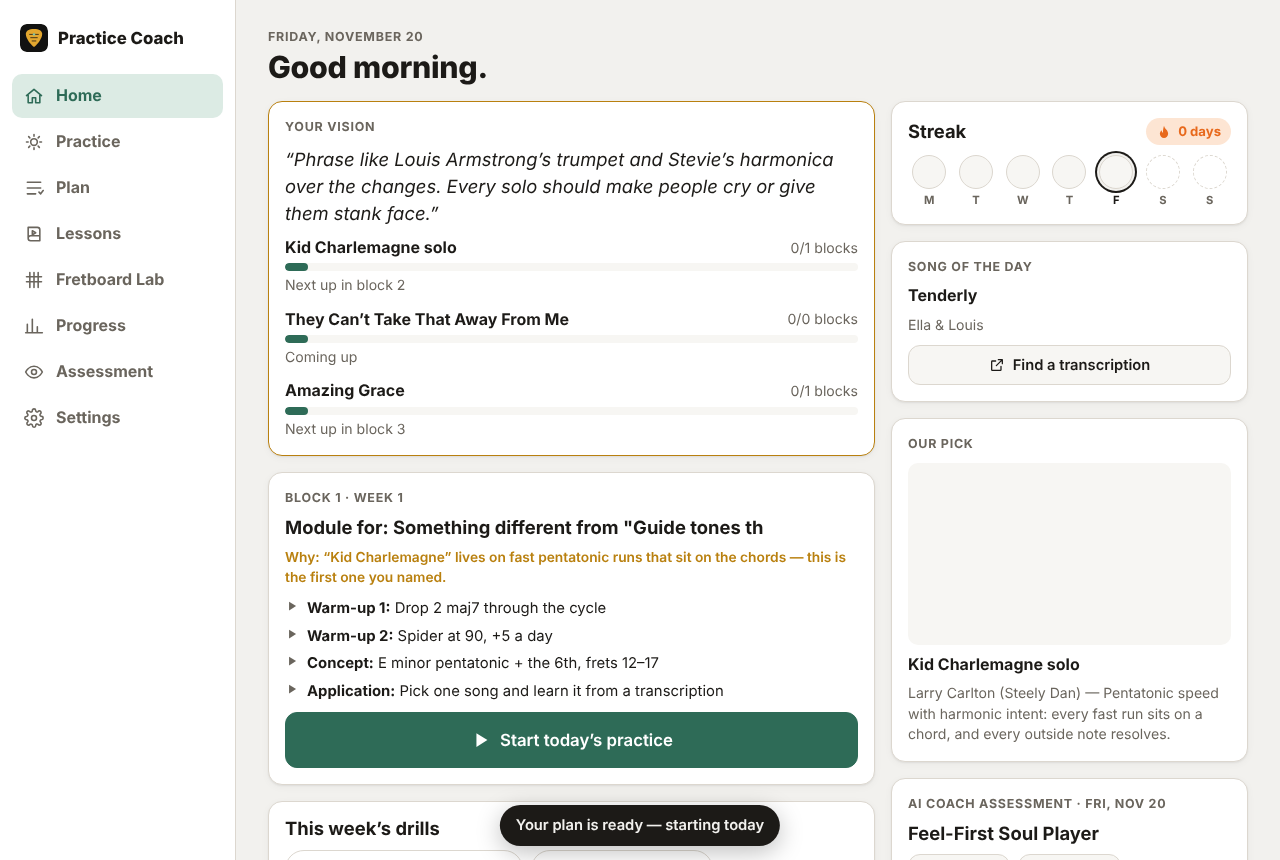
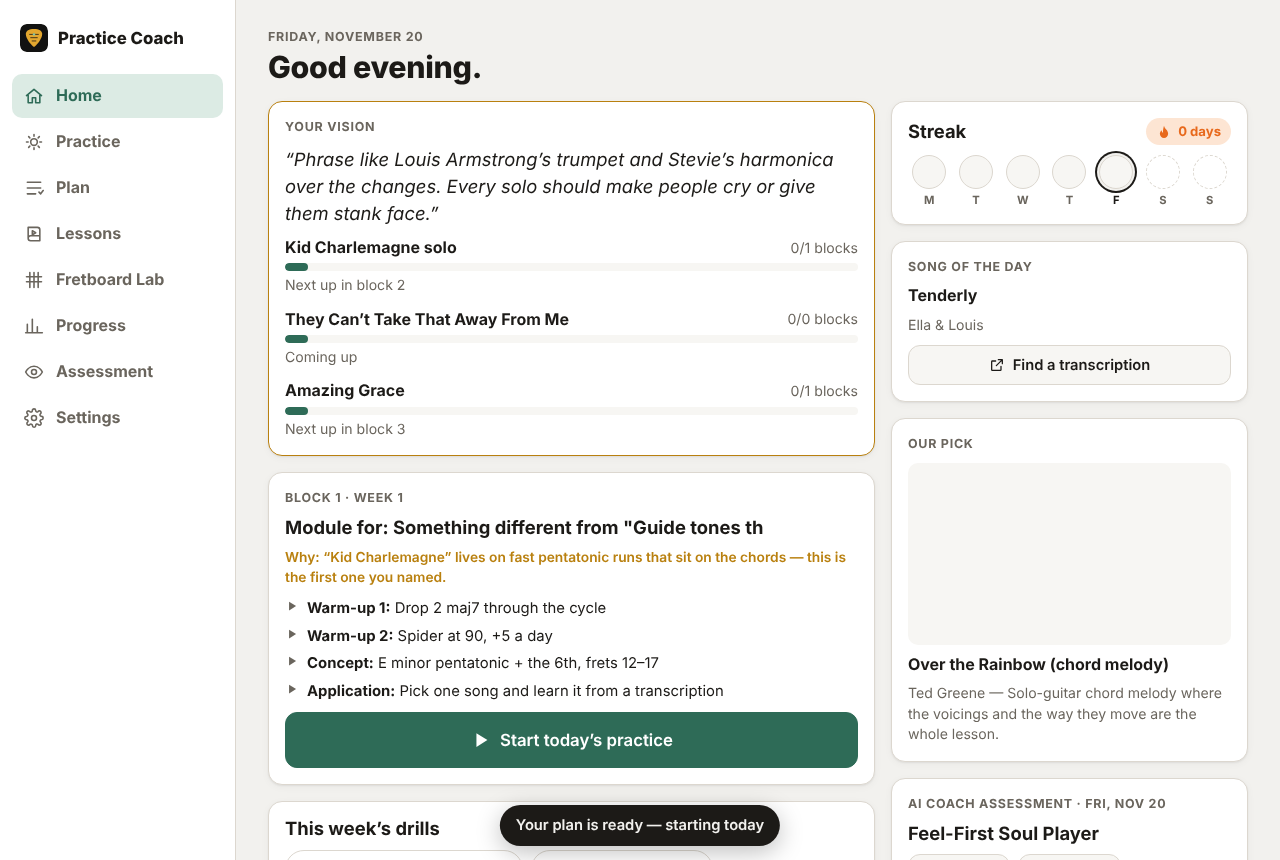
Transcription standard: Clay's three baseline videos, library, by-ear fallback
Adds api/_lib/transcriptions.ts (shared by server prompts and client) with
the three baselines; Joe Pass Satin Doll and Ted Greene Over the Rainbow
join Kid Charlemagne as approved lessons. Module songs link straight to
the lesson when the library has them. The coach marks each song as
learned from a transcription or by ear, and offers an alternative with
a transcription when a named piece has none. Build page shows the marker.

Claude-Session: https://claude.ai/code/session_01Ck9jDmZdcsHtunHSpi2Wgy

Changed region(s): [[0.7188, 0.7558, 0.9688, 0.8767], [0.2812, 0.0605, 0.375, 0.0907]]

diff --git a/practice-coach/api/_lib/transcriptions.ts b/practice-coach/api/_lib/transcriptions.ts
@@ -1,0 +1,114 @@
+/**
+ * The transcription library: videos that meet Clay's standard for learning a
+ * piece note for note — the full recording (or the solo) with tabs and/or
+ * notation ON SCREEN, synced to the audio, free to watch. Clay supplied the
+ * three baselines. Plain data, no imports, so both the server (prompts) and
+ * the client (lessons, links) can use it.
+ */
+export type Transcription = {
+  id: string
+  youtubeId: string
+  song: string
+  /** The player whose performance is transcribed. */
+  artist: string
+  /** Original act, when different from the performer (e.g. Steely Dan for a Carlton solo). */
+  originalArtist?: string
+  channel: string
+  videoTitle: string
+  /** What is on screen. */
+  format: 'tabs + notation' | 'notation' | 'tabs'
+  /** How much of the recording is covered. */
+  scope: 'full piece' | 'solo'
+  genre: string
+  /** Why it is the standard. */
+  note: string
+  /** Clay's three baselines are `baseline`; later additions are `library`. */
+  tier: 'baseline' | 'library'
+  /** Other titles the same piece goes by, for matching. */
+  aka?: string[]
+}
+
+export const TRANSCRIPTIONS: Transcription[] = [
+  {
+    id: 'kid-charlemagne',
+    youtubeId: 'FnFeReSz2j4',
+    song: 'Kid Charlemagne',
+    artist: 'Larry Carlton',
+    originalArtist: 'Steely Dan',
+    channel: 'Rens Warnar Music',
+    videoTitle: 'Steely Dan - Kid Charlemagne Solo with TAB',
+    format: 'tabs + notation',
+    scope: 'solo',
+    genre: 'jazz-rock',
+    note: 'Tabs, notation and chord names on screen with the record; the solo can be learned note for note.',
+    tier: 'baseline',
+    aka: ['Kid Charlemagne solo'],
+  },
+  {
+    id: 'joe-pass-satin-doll',
+    youtubeId: 'hMvMuSpsNmE',
+    song: 'Satin Doll',
+    artist: 'Joe Pass',
+    originalArtist: 'Duke Ellington',
+    channel: 'DW Scores',
+    videoTitle: 'Satin Doll by JOE PASS - Transcription (w/Tabs)',
+    format: 'tabs + notation',
+    scope: 'full piece',
+    genre: 'jazz',
+    note: 'A full solo-guitar performance transcribed with tabs; chord melody, walking bass and single lines in one piece.',
+    tier: 'baseline',
+  },
+  {
+    id: 'ted-greene-over-the-rainbow',
+    youtubeId: 'oB2YMXSvAz4',
+    song: 'Over the Rainbow',
+    artist: 'Ted Greene',
+    originalArtist: 'Harold Arlen',
+    channel: 'François Leduc',
+    videoTitle: 'Over the Rainbow - Ted Greene (Transcription)',
+    format: 'notation',
+    scope: 'full piece',
+    genre: 'jazz',
+    note: 'Solo-guitar chord melody transcribed in full; the voicings and voice leading are the lesson.',
+    tier: 'baseline',
+    aka: ['Somewhere Over the Rainbow'],
+  },
+]
+
+const norm = (s: string) =>
+  s
+    .toLowerCase()
+    .replace(/[’'`"().,!?]/g, '')
+    .replace(/\s+/g, ' ')
+    .trim()
+
+/**
+ * The library entry for a song, if any. Matches on the song title (or a known
+ * alias) appearing in `title`, and, when an artist is given, on the performer
+ * or the original act appearing in the artist text (so "Kid Charlemagne —
+ * Steely Dan" and "Kid Charlemagne solo — Larry Carlton" both match).
+ */
+export function findTranscription(title: string, artist?: string | null): Transcription | undefined {
+  const t = norm(title)
+  if (!t) return undefined
+  const a = norm(artist ?? '')
+  return TRANSCRIPTIONS.find((x) => {
+    const names = [x.song, ...(x.aka ?? [])].map(norm)
+    const titleHit = names.some((n) => t.includes(n) || n.includes(t))
+    if (!titleHit) return false
+    if (!a) return true
+    const people = [x.artist, x.originalArtist ?? ''].map(norm).filter(Boolean)
+    const lastNames = people.map((p) => p.split(' ').pop()!)
+    return people.some((p) => a.includes(p)) || lastNames.some((l) => a.includes(l)) || t.includes(norm(x.artist))
+  })
+}
+
+export const TRANSCRIPTIONS_TEXT = `TRANSCRIPTION STANDARD. A song in an application is only useful if the player can learn it note for note. The standard is a free YouTube video that shows the full recording (or the solo) with tabs and/or notation ON SCREEN, synced to the audio. The baseline examples:
+${TRANSCRIPTIONS.filter((x) => x.tier === 'baseline')
+  .map((x) => `- ${x.videoTitle} (${x.channel}) — ${x.scope}, ${x.format}`)
+  .join('\n')}
+Rules for application songs:
+1. Prefer songs and solos that almost certainly have a video like that (widely transcribed records, classic solos, standards played by famous guitarists). Set how = "transcription".
+2. The player's own named pieces always stay in, even without one. For a piece that is unlikely to have a transcription video (a one-off live or interview performance, an obscure track, a very recent release), set how = "ear" and make the instruction a learn-by-ear plan: the underlying song's form and changes, which section to loop first, what to listen for.
+3. When a piece is how = "ear" and the module needs more material, add one alternative with the same lesson value that does have a transcription video (same style, same technique) and say in the note why it is there.
+4. Never invent a video title or channel. You only decide how the song is best learned; the app finds the video.`

diff --git a/practice-coach/src/ai/fixture.ts b/practice-coach/src/ai/fixture.ts
@@ -20,10 +20,10 @@ export const FIXTURE_MODULES: AiModule[] = [
     application: {
       instruction: 'Pick one and learn it from a video with the tabs on screen; then solo over it using only this week’s idea.',
       songs: [
-        { title: 'Kid Charlemagne solo', artist: 'Larry Carlton', note: 'your goal — lesson with bar map' },
-        { title: 'The Thrill Is Gone', artist: 'B.B. King', note: null },
-        { title: 'Isn’t She Lovely', artist: 'Stevie Wonder', note: null },
-        { title: 'Cissy Strut', artist: 'The Meters', note: 'discovery pick' },
+        { title: 'Kid Charlemagne solo', artist: 'Larry Carlton', note: 'your goal — lesson with bar map', how: null },
+        { title: 'The Thrill Is Gone', artist: 'B.B. King', note: null, how: null },
+        { title: 'Isn’t She Lovely', artist: 'Stevie Wonder', note: null, how: null },
+        { title: 'Cissy Strut', artist: 'The Meters', note: 'discovery pick', how: null },
       ],
     },
     doneWhen: ['Bars 7–9 clean at ♩=98', 'G major pentatonic over Cmaj7 without thinking', 'Spider at 100 bpm clean'],
@@ -43,9 +43,9 @@ export const FIXTURE_MODULES: AiModule[] = [
     application: {
       instruction: 'Melody first, then a chorus using only guide tones and chord tones.',
       songs: [
-        { title: 'They Can’t Take That Away From Me', artist: 'Ella Fitzgerald & Louis Armstrong', note: 'your goal' },
-        { title: 'Autumn Leaves', artist: 'standard', note: null },
-        { title: 'Fly Me to the Moon', artist: 'standard', note: null },
+        { title: 'They Can’t Take That Away From Me', artist: 'Ella Fitzgerald & Louis Armstrong', note: 'your goal', how: null },
+        { title: 'Autumn Leaves', artist: 'standard', note: null, how: null },
+        { title: 'Fly Me to the Moon', artist: 'standard', note: null, how: null },
       ],
     },
     doneWhen: ['Guide tones through a ii–V–I in any key at 80 bpm', 'A full chorus of the tune without a pentatonic box'],
@@ -65,9 +65,9 @@ export const FIXTURE_MODULES: AiModule[] = [
     application: {
       instruction: 'Arrange the first verse.',
       songs: [
-        { title: 'Amazing Grace', artist: 'Isaiah Sharkey', note: 'your goal' },
-        { title: 'Tenderly', artist: 'Ella & Louis', note: null },
-        { title: 'Misty', artist: 'Wes Montgomery', note: 'discovery pick' },
+        { title: 'Amazing Grace', artist: 'Isaiah Sharkey', note: 'your goal', how: null },
+        { title: 'Tenderly', artist: 'Ella & Louis', note: null, how: null },
+        { title: 'Misty', artist: 'Wes Montgomery', note: 'discovery pick', how: null },
       ],
     },
     doneWhen: ['One verse of Amazing Grace as chord-melody', 'Harmonize any melody note with a drop 2 voicing on demand'],
@@ -87,9 +87,9 @@ export const FIXTURE_MODULES: AiModule[] = [
     application: {
       instruction: 'Play the melody you learned along with the record.',
       songs: [
-        { title: 'So What', artist: 'Miles Davis', note: null },
-        { title: 'Four on Six', artist: 'Wes Montgomery', note: null },
-        { title: 'Blue Bossa', artist: 'Kenny Dorham', note: null },
+        { title: 'So What', artist: 'Miles Davis', note: null, how: null },
+        { title: 'Four on Six', artist: 'Wes Montgomery', note: null, how: null },
+        { title: 'Blue Bossa', artist: 'Kenny Dorham', note: null, how: null },
       ],
     },
     doneWhen: ['Three melodies learned by ear', 'Name the players on each record'],

diff --git a/practice-coach/src/plan/fromModules.ts b/practice-coach/src/plan/fromModules.ts
@@ -3,6 +3,8 @@
  * so Practice, Plan and Home need no AI-specific code.
  */
 import type { AiModule, AiResult } from '../../api/_lib/schemas'
+import { findTranscription } from '../../api/_lib/transcriptions'
+import { LESSONS } from '../content/lessons'
 import type { Vision } from '../assessment/scoring'
 import type { BlockWeek, PartOption, SessionPart } from '../content/types'
 import type { GeneratedPlan, Milestone, PlanBlock } from './model'
@@ -17,6 +19,16 @@ function minsFor(part: keyof typeof RATIO, sessionMinutes: number): Mins {
 
 const search = (title: string, artist: string) =>
   `https://www.youtube.com/results?search_query=${encodeURIComponent(`${title} ${artist} guitar transcription tab`.trim())}`
+const recording = (title: string, artist: string) => `https://www.youtube.com/results?search_query=${encodeURIComponent(`${title} ${artist}`.trim())}`
+
+/** Where a module song sends the player: the lesson (tabs on screen, looper) when the library has it; the record for by-ear pieces; else a transcription search. */
+export function songLink(s: { title: string; artist: string; how?: 'transcription' | 'ear' | null }): { url: string; via: 'lesson' | 'ear' | 'search' } {
+  const t = findTranscription(s.title, s.artist)
+  const lesson = t && LESSONS.find((l) => l.id === t.id || l.youtubeId === t.youtubeId)
+  if (lesson) return { url: `#/lessons/${lesson.id}`, via: 'lesson' }
+  if (s.how === 'ear') return { url: recording(s.title, s.artist), via: 'ear' }
+  return { url: search(s.title, s.artist), via: 'search' }
+}
 
 const labUrl = (q: string | null) => (q ? '/lab?' + q : null)
 
@@ -78,12 +90,16 @@ export function planFromModules(result: AiResult, modules: AiModule[], now = new
       const songs = m.application.songs
       const rot = (w - 1) % Math.max(1, songs.length)
       const ordered = [...songs.slice(rot), ...songs.slice(0, rot)]
-      const options: PartOption[] = ordered.map((s) => ({
-        label: s.title,
-        sub: [s.artist, s.note].filter(Boolean).join(' · ') || undefined,
-        url: search(s.title, s.artist),
-        kind: pieceTitles.includes(s.title.toLowerCase()) ? 'goal' : s.note?.toLowerCase().includes('discover') ? 'discover' : 'song',
-      }))
+      const options: PartOption[] = ordered.map((s) => {
+        const link = songLink(s)
+        const via = link.via === 'lesson' ? 'tabs on screen · looper' : link.via === 'ear' ? 'by ear from the record · loop it slow' : null
+        return {
+          label: s.title,
+          sub: [s.artist, via, s.note].filter(Boolean).join(' · ') || undefined,
+          url: link.url,
+          kind: pieceTitles.includes(s.title.toLowerCase()) ? 'goal' : s.note?.toLowerCase().includes('discover') ? 'discover' : 'song',
+        }
+      })
       const app: SessionPart = {
         id: 'application',
         title: 'Application',

diff --git a/practice-coach/src/content/lessons.ts b/practice-coach/src/content/lessons.ts
@@ -61,6 +61,43 @@ export const LESSONS: Lesson[] = [
     ],
   },
   {
+    id: 'joe-pass-satin-doll',
+    kind: 'song',
+    title: 'Satin Doll (solo guitar)',
+    artist: 'Joe Pass',
+    song: 'Satin Doll',
+    year: 1973,
+    youtubeId: 'hMvMuSpsNmE',
+    channel: 'DW Scores',
+    videoTitle: 'Satin Doll by JOE PASS - Transcription (w/Tabs)',
+    status: 'approved',
+    verification: "One of Clay's three baseline transcriptions: full performance, tabs and notation on screen with the recording.",
+    concepts: ['chord melody', 'walking bass', 'ii–V–I lines', 'drop 2 voicings'],
+    summary: 'A whole solo-guitar performance of a standard: melody, chords, bass and single lines from one player.',
+    drills: [
+      { label: 'Cmaj7 drop 2 · top four strings', labUrl: labPath({ mode: 'chords', root: 'C', type: 'maj7', voicing: 'drop2', set: 'DGBE', move: 'static' }) },
+      { label: 'G7 arpeggio · position 3', labUrl: labPath({ mode: 'arpeggios', root: 'G', type: '7', pos: 3, move: 'static' }) },
+    ],
+  },
+  {
+    id: 'ted-greene-over-the-rainbow',
+    kind: 'song',
+    title: 'Over the Rainbow (chord melody)',
+    artist: 'Ted Greene',
+    song: 'Over the Rainbow',
+    youtubeId: 'oB2YMXSvAz4',
+    channel: 'François Leduc',
+    videoTitle: 'Over the Rainbow - Ted Greene (Transcription)',
+    status: 'approved',
+    verification: "One of Clay's three baseline transcriptions: full performance in notation on screen with the recording.",
+    concepts: ['chord melody', 'voice leading', 'reharmonization'],
+    summary: 'Solo-guitar chord melody where the voicings and the way they move are the whole lesson.',
+    drills: [
+      { label: 'Major triads · close voicings · top three strings', labUrl: labPath({ mode: 'chords', root: 'C', type: 'maj', voicing: 'close3', set: 'GBE', move: 'c4' }) },
+      { label: 'Fmaj7 drop 2 · top four strings', labUrl: labPath({ mode: 'chords', root: 'F', type: 'maj7', voicing: 'drop2', set: 'DGBE', move: 'static' }) },
+    ],
+  },
+  {
     id: 'benson-affirmation',
     kind: 'song',
     title: 'Affirmation (live solo)',

diff --git a/practice-coach/src/screens/BuildPlan.tsx b/practice-coach/src/screens/BuildPlan.tsx
@@ -2,6 +2,7 @@ import { useEffect, useRef, useState } from 'react'
 import type { AiModule } from '../../api/_lib/schemas'
 import { applyBuild, setBuildModules, setBuildTime, setModules } from '../ai/actions'
 import { getModules, writeModule } from '../ai/client'
+import { songLink } from '../plan/fromModules'
 import { Icon } from '../components/Icon'
 import { toast } from '../components/Toast'
 import { href, navigate } from '../lib/router'
@@ -219,7 +220,24 @@ export function BuildPlan() {
                 </div>
                 <div>
                   <span className="label">Apply it to</span>
-                  <div>{m.application.songs.map((s) => `${s.title} (${s.artist})`).join(' · ')}</div>
+                  <ul style={{ margin: 0, paddingLeft: 18 }}>
+                    {m.application.songs.map((s) => {
+                      const link = songLink(s)
+                      return (
+                        <li key={`${s.title}|${s.artist}`}>
+                          {link.via === 'lesson' ? (
+                            <a href={link.url}>{s.title}</a>
+                          ) : (
+                            s.title
+                          )}{' '}
+                          <span className="muted">({s.artist})</span>
+                          {link.via === 'lesson' && <span className="pill"> tabs on screen</span>}
+                          {link.via === 'ear' && <span className="pill amber"> by ear</span>}
+                          {s.note && <span className="muted"> — {s.note}</span>}
+                        </li>
+                      )
+                    })}
+                  </ul>
                   <div className="muted">{m.application.instruction}</div>
                 </div>
                 <div>

diff --git a/practice-coach/api/_lib/prompts.ts b/practice-coach/api/_lib/prompts.ts
@@ -4,6 +4,7 @@
  * docs/interviewer-rules.md — keep the two in step.
  */
 import { LAB_VOCAB_TEXT } from './lab-vocab.js'
+import { TRANSCRIPTIONS_TEXT } from './transcriptions.js'
 import type { BlockId, Turn } from './schemas.js'
 
 export const BLOCK_BUDGET: Record<BlockId, { screens: number; minutes: number; name: string }> = {
@@ -122,6 +123,7 @@ const MODULE_RULES = `Each module is a focused unit of practice. Default length 
 export function modulesSystem(): string {
   return `You write the recommended curriculum for a guitar player who just finished the Practice Coach assessment. You get their results (profile, skill levels, gaps, vision, taste, practice time) and the transcript. Return JSON per schema: 4–10 modules in order. LEAD WITH WHAT THEY SAID IS INSPIRING THEM RIGHT NOW and want to work on first; fit the gaps around that (most of the time goes to what they WANT; fundamentals they NEED ride along as the daily warm-ups). Order foundations before what builds on them only when something truly can't be started yet. Honor their practice time.
 ${MODULE_RULES}
+${TRANSCRIPTIONS_TEXT}
 ${LAB_VOCAB_TEXT}`
 }
 
@@ -134,6 +136,7 @@ export function modulesUser(req: { turns: Turn[]; core: unknown }): string {
 export function moduleSystem(): string {
   return `You write one practice module for Practice Coach, for a specific player, on request. You get their profile, vision, skill levels, gaps and taste, plus the titles of modules already in their plan. Write a module for what they asked, pitched at their level (not too easy, not over their head). Don't duplicate an existing module.
 ${MODULE_RULES}
+${TRANSCRIPTIONS_TEXT}
 ${LAB_VOCAB_TEXT}`
 }
 

diff --git a/practice-coach/api/_lib/transcriptions.test.ts b/practice-coach/api/_lib/transcriptions.test.ts
@@ -1,0 +1,23 @@
+import { describe, expect, it } from 'vitest'
+import { findTranscription, TRANSCRIPTIONS } from './transcriptions'
+
+describe('transcription library', () => {
+  it('has unique ids and video ids', () => {
+    expect(new Set(TRANSCRIPTIONS.map((t) => t.id)).size).toBe(TRANSCRIPTIONS.length)
+    expect(new Set(TRANSCRIPTIONS.map((t) => t.youtubeId)).size).toBe(TRANSCRIPTIONS.length)
+  })
+  it('matches the player wording for a named piece', () => {
+    expect(findTranscription('Kid Charlemagne solo', 'Larry Carlton')?.id).toBe('kid-charlemagne')
+    expect(findTranscription('Kid Charlemagne', 'Steely Dan')?.id).toBe('kid-charlemagne')
+    expect(findTranscription('Somewhere Over the Rainbow', 'Ted Greene')?.id).toBe('ted-greene-over-the-rainbow')
+    expect(findTranscription('Satin Doll', 'Joe Pass')?.id).toBe('joe-pass-satin-doll')
+  })
+  it('does not match the same song by a different player', () => {
+    expect(findTranscription('Over the Rainbow', 'Eric Clapton')).toBeUndefined()
+    expect(findTranscription('Satin Doll', 'Wes Montgomery')).toBeUndefined()
+  })
+  it('matches on title alone when no artist is given', () => {
+    expect(findTranscription('Satin Doll')?.id).toBe('joe-pass-satin-doll')
+    expect(findTranscription('Blackbird', 'Eric Gales')).toBeUndefined()
+  })
+})

diff --git a/practice-coach/api/_lib/schemas.ts b/practice-coach/api/_lib/schemas.ts
@@ -75,7 +75,17 @@ export const ModuleSchema = z.object({
   application: z.object({
     instruction: z.string(),
     songs: z
-      .array(z.object({ title: z.string(), artist: z.string(), note: z.string().nullable() }))
+      .array(
+        z.object({
+          title: z.string(),
+          artist: z.string(),
+          note: z.string().nullable(),
+          how: z
+            .enum(['transcription', 'ear'])
+            .nullable()
+            .describe('"transcription" when a full tabs/notation-on-screen video almost certainly exists; "ear" for a one-off live/interview performance or obscure track the player learns from the recording with the looper'),
+        }),
+      )
       .describe('3 to 5 real songs/solos to choose from: their named pieces first when relevant, songs from their genres, one discovery pick'),
   }),
   doneWhen: z.array(z.string()).describe('2 or 3 concrete, checkable checks'),

diff --git a/practice-coach/docs/open-questions.md b/practice-coach/docs/open-questions.md
@@ -16,7 +16,7 @@ Things from the review that need a decision or a design conversation before buil
 9. **Module length in days, not just weeks.** Clay: "a week could be days." Options: keep 1–3 weeks (simple), or allow 3–21 days per module, or make a module "until done when is met." Which?
 10. **"Done when" wording.** He didn't like it ("four original diminished licks memorized" felt weird). Keep done-when checks but phrase them as things you can hear yourself do? Replace with "you'll know it's working when…"? Drop them?
 11. **Build page as its own mini-assessment.** The bigger idea: not just keep/swap/drop the coach's modules, but a builder where you choose what kinds of practice you want (technique drills, triads daily, transcriptions), minutes per kind, days per week per kind (e.g. drills 5 days, a song 2 days), and the coach fills the specifics. This is a real design piece; sketch it together before building.
-12. **Specific videos, not YouTube searches.** Every song in a module currently links to a YouTube search. Clay wants the actual transcription video (tabs on screen) picked, and ideally learnable note for note. That needs a video search (YouTube Data API) plus the AI judging which result has tabs on screen, plus a way for you to confirm. Also: Spotify links should land on the artist/album page, which needs Spotify's API for IDs.
+12. **Specific videos, not YouTube searches.** Clay set the standard with three baseline videos (now in the app as approved lessons and in `api/_lib/transcriptions.ts`): Rens Warnar Music "Kid Charlemagne Solo with TAB", DW Scores "Satin Doll by Joe Pass - Transcription (w/Tabs)", François Leduc "Over the Rainbow - Ted Greene (Transcription)". The rule: the full recording or solo with tabs or notation on screen, synced to the audio, free. Module songs that match the library now link straight to the lesson page (video + looper); the coach marks each song as "transcription" or "by ear" and suggests an alternative with the same lesson value when a named piece has no such video (e.g. Eric Gales' Blackbird from an interview). Open: growing the library beyond three (hand-curated by Clay, or a YouTube Data API search with the AI judging "tabs on screen" and Clay approving in the Lessons review queue). Also: Spotify links should land on the artist/album page, which needs Spotify's API for IDs.
 13. **Transcriptions as the core material.** "We gotta be able to learn stuff note for note." Beyond linking videos: do we build our own tabs/notation viewer synced to the video (the Kid Charlemagne bar map is a start), or lean on YouTube videos with tab on screen plus the A–B looper?
 14. **Practice page flow.** Clay wants it sequential (warm-up 1 → warm-up 2 → concept → application) without leaving the page, timers that start when you say so, and the Lab in view without losing your place. Drills now open inline; the timer already carries across pages. Open: a true step-by-step "guided session" mode (one part at a time, Next button, auto-advance at time) versus the current card list?
 15. **Session length beyond 30/60.** Any minutes can be set on the Build page and parts scale, but the Practice toggle still shows 30/60. Replace the toggle with the plan's own length and a "short day" option?
@@ -26,3 +26,4 @@ Things from the review that need a decision or a design conversation before buil
 17. **Free assessment as the front door.** Free assessment + profile online, "Build your practice routine," one free week or module, then pay. Shapes what needs accounts and payments. When?
 18. **Speed.** Questions arrive in 6–13 s batches. Prefetching the next batch while the player answers isn't possible when questions depend on answers, but the coach could prepare two alternative next screens (yes-branch / no-branch) for yes/no questions. Worth the extra cost (roughly double per call)?
 19. **Taste beyond artists.** He wants the taste profile to open doors: albums, not just artists (done), and recommendations he wouldn't find himself. How far should the coach go off his known names?
+20. **Learn-by-ear guide when no transcription exists (test case: Eric Gales' Blackbird, from an interview).** The coach cannot hear audio, so the honest version is: identify the underlying song (Blackbird), teach its skeleton from the original (form, key, the tenths), have the player mark section starts in the video, loop each section slowed with the Lab showing the chord tones, and give "what to listen for" per section as hypotheses. Later: an uploaded audio file through pitch detection and stem separation gives a rough draft to correct (works best on solo guitar). Decide: build the by-ear mode now as the fallback for every "ear" song, or wait until the library is bigger?

diff --git a/practice-coach/DECISIONS.md b/practice-coach/DECISIONS.md
@@ -113,3 +113,9 @@ Clay ran the assessment, results and Build page himself and recorded an hour of 
 - **Build page: any minutes a day** (15/30/45/60/90/120 or a custom number) and 1–7 days; session parts scale by ratio to the chosen length. Swap/Add errors are shown with their reason (the first run's "Bad request" came from a too-strict request schema on the server; fixed).
 - **Practice page: drills open inline.** A Fretboard Lab preset now opens in a frame inside the practice part (with the quiz panel hidden in embed mode) so a drill doesn't take you off your routine. The Plan page got a "Start today's practice" button.
 - **Listening list is albums**, with Spotify and YouTube search links (direct artist/album links need Spotify's API; open question).
+
+## The transcription standard (v0.5.2)
+- **Clay set the bar with three baseline videos:** Rens Warnar Music's *Kid Charlemagne Solo with TAB*, DW Scores' *Satin Doll by Joe Pass – Transcription (w/Tabs)* and François Leduc's *Over the Rainbow – Ted Greene (Transcription)*. The full recording (or the solo) with tabs or notation on screen, synced to the audio, free to watch. All three are approved lessons now (video, looper, drills), and the library lives in `api/_lib/transcriptions.ts` so both the server prompts and the client use the same list.
+- **Module songs link to the lesson when the library has them;** otherwise to a YouTube search, as before. The coach now marks each application song `how: "transcription"` (a video like that almost certainly exists) or `how: "ear"` (a one-off live or interview performance, an obscure track), and for an "ear" piece writes a learn-by-ear instruction and adds an alternative with the same lesson value that does have a transcription. The Build page shows "tabs on screen" / "by ear" next to each song.
+- **Why not let the AI name videos:** it invents plausible video titles and IDs. It only decides how a song is best learned; the app finds the video (today: the library or a search; later: a YouTube Data API search judged for tabs on screen and approved in the Lessons review queue).
+- **The coach cannot listen.** Audio and video are not inputs to the model, so nothing it says about an unseen performance is heard. A by-ear guide (section the video, loop it slow, chord tones in the Lab, what to listen for) is the honest fallback; machine transcription from an uploaded file is a later draft-to-correct, not a finished tab.
